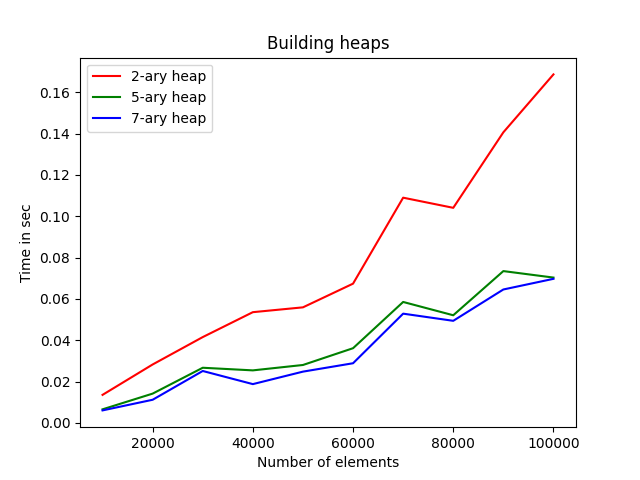
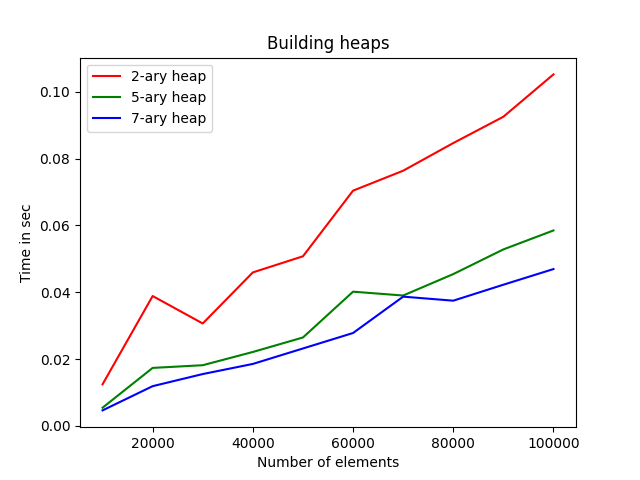
Fix

diff --git a/heap.py b/heap.py
@@ -6,11 +6,11 @@ def restore_down(arr, length, index, k):
     child = [0] * (k + 1)
     while True:
         for i in range(1, k + 1):
-            child[i] = k * index + i if k * index + i < length else -1
+            child[i] = k * index + i if k * index + i < length else -1 # uzupełniamy wartościami dzieci
 
         max_child, max_child_index = -1, 0
         for i in range(1, k + 1):
-            if child[i] != -1 and arr[child[i]] > max_child:
+            if child[i] != -1 and arr[child[i]] > max_child: #szukamy największego dziecka
                 max_child_index = child[i]
                 max_child = arr[child[i]]
 
@@ -18,12 +18,12 @@ def restore_down(arr, length, index, k):
             break
 
         if arr[index] < arr[max_child_index]:
-            arr[index], arr[max_child_index] = arr[max_child_index], arr[index]
+            arr[index], arr[max_child_index] = arr[max_child_index], arr[index] # zamiana, jeśli dziecko jest większe od rodzica
 
-        index = max_child_index
+        index = max_child_index # sprawdzamy dla podmienionego dziecka
 
 
-def restore_up(arr, index, k):
+def restore_up(arr, index, k): # rodzic zamienia się z dzieckiem
     parent = (index - 1) // k
     while parent >= 0:
         if arr[index] > arr[parent]:
@@ -34,10 +34,13 @@ def restore_up(arr, index, k):
             break
 
 
-def build_heap(arr, n, k):
-    for i in range((n - 1) // k, -1, -1):
-        restore_down(arr, n, i, k)
-
+def build_heap(arr, k):
+    heap = [arr[-1]]
+    n=1
+    for element in reversed(arr[:-1]):
+        n = insert(heap, n, k, element)
+    return heap
+    
 
 def insert(arr, n, k, elem):
     arr.append(elem)
@@ -48,9 +51,9 @@ def insert(arr, n, k, elem):
 
 def extract_max(arr, n, k):
     max_elem = arr[0]
-    arr[0] = arr[n - 1]
+    arr[0] = arr[n - 1] #podstawienie ostatniego elementu w korzeń 
     n -= 1
-    restore_down(arr, n, 0, k)
+    restore_down(arr, n, 0, k) #naprawa
     del arr[-1]
     return max_elem, n
 
@@ -71,34 +74,42 @@ def draw(arr, k, elements=1, pos=0, prev_max_pos=0, indent=""):
         pos -= 1
     print(indent)
 
-arr = [4, 5, 6, 7, 8, 9, 10]
-k = 3
-n = len(arr)
+# arr = [4, 5, 6, 7, 8, 9, 10]
+# k = 3
+# n = len(arr)
 
-build_heap(arr, n, k)
-print("Built Heap:")
-print(arr)
+# build_heap(arr, n, k)
+# print("Built Heap:")
+# print(arr)
 
-elem = 3
-n = insert(arr, n, k, elem)
-print("\nHeap after insertion of", elem, ":")
-print(arr)
-draw(arr, k)
+# elem = 3
+# n = insert(arr, n, k, elem)
+# print("\nHeap after insertion of", elem, ":")
+# print(arr)
+# draw(arr, k)
 
-max_elem, n = extract_max(arr, n, k)
-print("\nExtracted max is", max_elem)
-print("Heap after extract max:")
-print(arr)
-draw(arr, k)
+# max_elem, n = extract_max(arr, n, k)
+# print("\nExtracted max is", max_elem)
+# print("Heap after extract max:")
+# print(arr)
+# draw(arr, k)
 
-# # test draw for 2
-# tst2 = [0, 1, 2, 3, 4, 5, 6, 7, 8]
-# draw(tst2, 2)
+if __name__ == "__main__":
+    # arr = [50, 10, 15, 50, 40, 40, 100]
+    # build_heap(arr, len(arr), 2)
+    # print(arr)
+    # test draw for 2
+    tst2 = [0, 1, 2, 3, 4, 5, 6, 7, 8]
+    tst2 = build_heap(tst2, 2)
+    draw(tst2, 2)
 
-# # test draw for 3
-# tst3 = [0, 1, 2, 3, 4, 5, 6, 7, 8, 9, 10, 11, 12, 13, 14, 15]
-# draw(tst3, 3)
+    # test draw for 5
+    tst5 = [0,1,2,3,4,5]
+    tst5 = build_heap(tst5, 5)
+    print(tst5)
+    draw(tst5, 5)
 
-# # test draw for 7
-# tst7 = [x for x in range(61)]
-# draw(tst7, 7)
+    # test draw for 7
+    tst7 = [x for x in range(61)]
+    tst7 = build_heap(tst7, 7)
+    draw(tst7, 7)

diff --git a/main.py b/main.py
@@ -24,7 +24,7 @@ def create_heap_time_measure(arr, k):
     gc_old = gc.isenabled()
     gc.disable()
     start = time.process_time()
-    heap.build_heap(arr, len(arr), k)
+    heap.build_heap(arr, k)
     stop = time.process_time()
     if gc_old:
         gc.enable()
